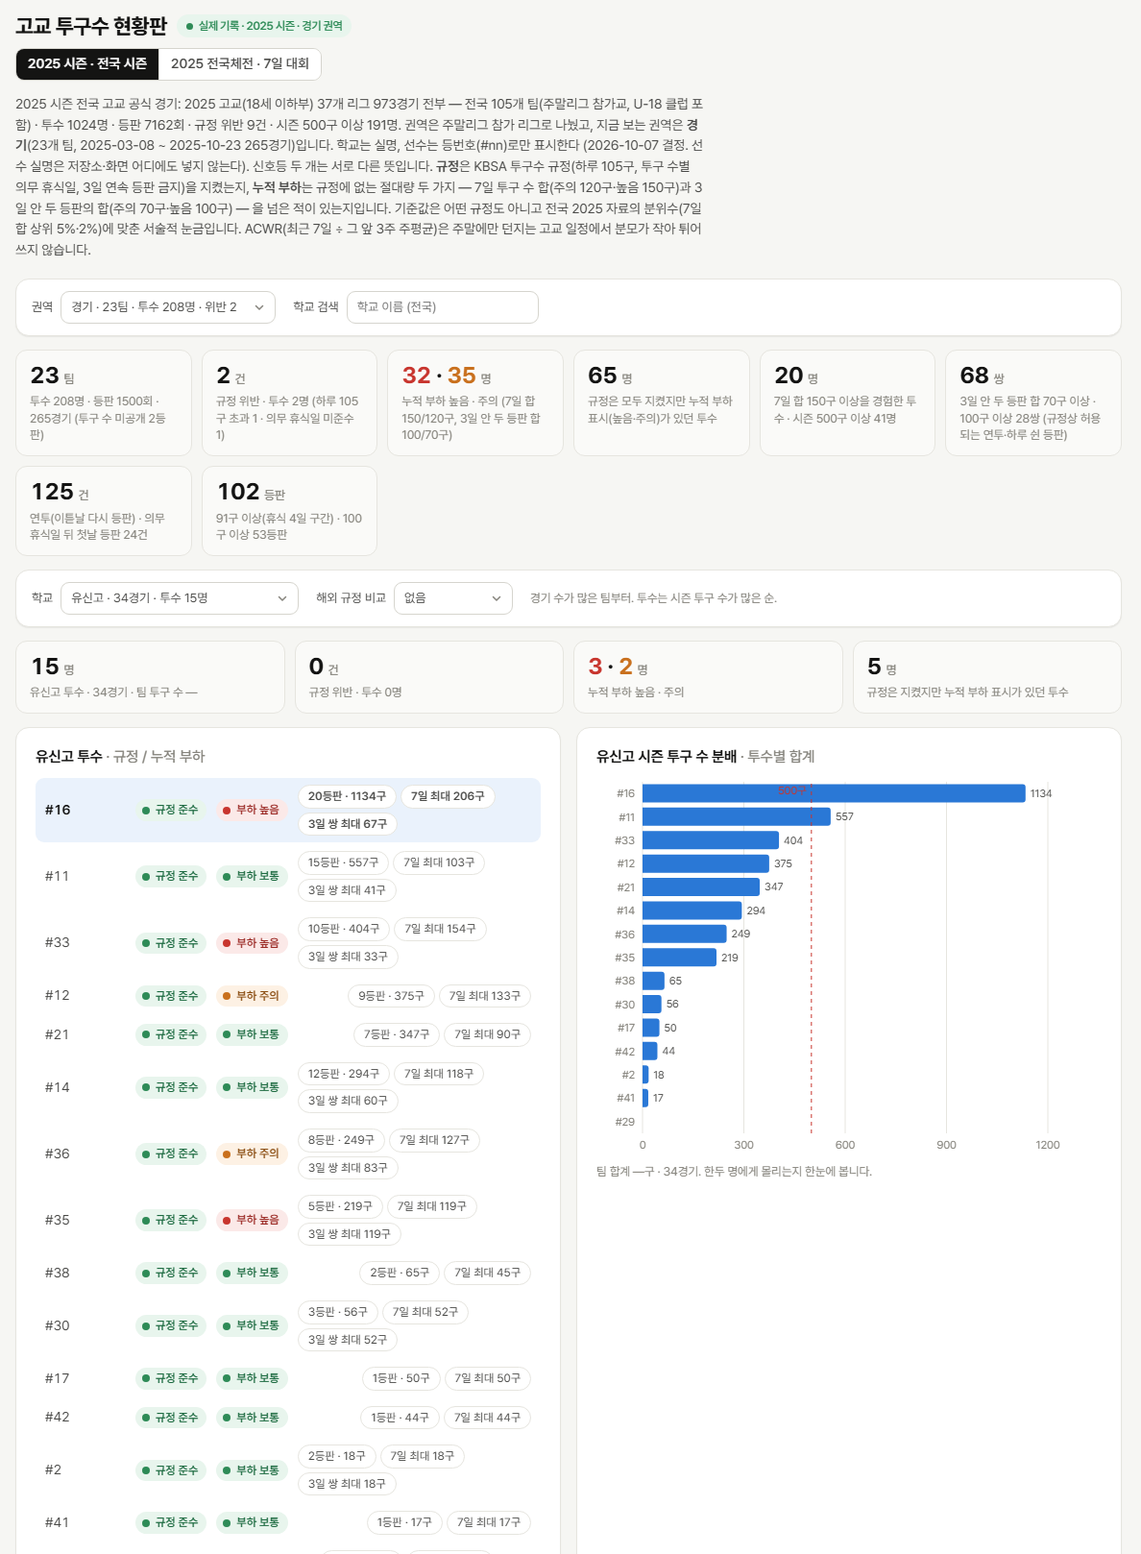
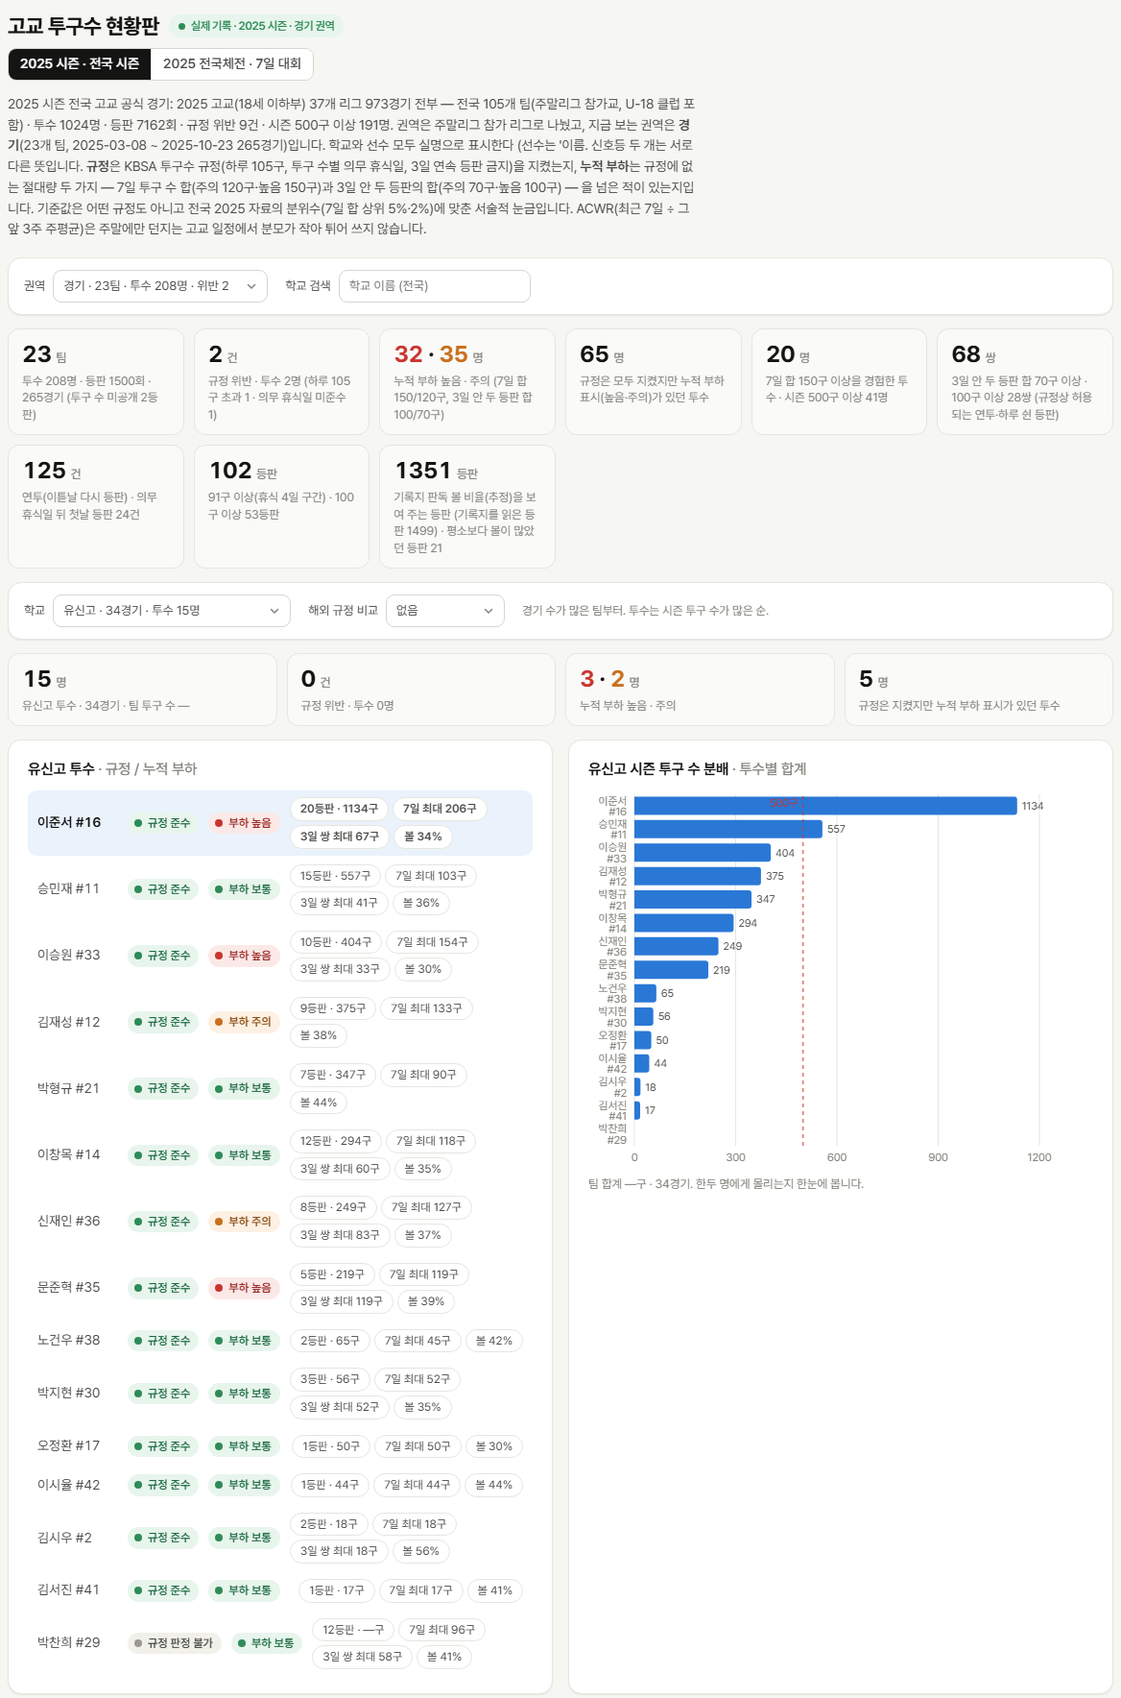
제안서·숫자표·슬라이드 갱신: 선수 이름 표기, 투수 운용 계획판·등판 흐름, 손기록지 볼 비율과 검증(영상 19경기 90.2%, 4사구율 상관 0.727, MLB 0.658), 고교 현황판 캡처 교체·볼 비율 그림 추가

diff --git a/docs/proposal/proposal.md b/docs/proposal/proposal.md
@@ -4,7 +4,7 @@
 
 **왜 필요한가.** 고교 투구수 규정은 하루 단위만 보고, 며칠에서 몇 주에 걸쳐 쌓이는 부하는 보지 못한다. 프로에서는 이상이 드러난 뒤의 대응이 늦거나(2026년 KBO 외국인 투수 완전 교체 결정까지 36~41일) 급하다(6주 대체 3~6일). 부상 전 투구 추적 지표에 신호가 있다는 연구는 여럿이지만 모두 부상 뒤 돌아본 분석이고, 정상 상태에서 경보가 얼마나 자주 울리는지는 다루지 않는다. 경보가 너무 자주 울리면 현장은 보지 않는다.
 
-**무엇을 만들었나.** ① 투수별로 움직이는 기준선과 가변 표본 표준화로, 투구 수가 다른 짧은 등판에서도 오경보율을 같게 지키는 감시 엔진. ② 경보가 울린 이유를 보여 주는 경보 카드와 시즌 리플레이(2021~2026 투수-시즌 2,970개 검색). ③ 추적 장비가 없는 고교·대회를 위한 투구수 현황판(KBSA 규정 자동 판정과 누적 부하). ④ KBO 구단용 **외국인 투수 영입 전 점검** — 2026년 KBO 외국인 투수 26명 중 19명의 MLB·트리플A 공개 기록에 같은 엔진을 돌린 이력 카드. 검증은 데이터가 모두 공개된 MLB 2021~2026 시즌에서 했고, 평가 계획은 결과를 보기 전에 고정해 공개했으며, 2026 시즌은 봉인했다가 한 번만 평가했다.
+**무엇을 만들었나.** ① 투수별로 움직이는 기준선과 가변 표본 표준화로, 투구 수가 다른 짧은 등판에서도 오경보율을 같게 지키는 감시 엔진. ② 경보가 울린 이유를 보여 주는 경보 카드와 시즌 리플레이(2021~2026 투수-시즌 2,970개 검색). ③ 추적 장비가 없는 고교·대회를 위한 투구수 현황판(KBSA 규정 자동 판정과 누적 부하, 투수 운용 계획판, 손기록지 사진에서 읽은 볼 비율(추정)과 이닝별 투구 수). ④ KBO 구단용 **외국인 투수 영입 전 점검** — 2026년 KBO 외국인 투수 26명 중 19명의 MLB·트리플A 공개 기록에 같은 엔진을 돌린 이력 카드. 검증은 데이터가 모두 공개된 MLB 2021~2026 시즌에서 했고, 평가 계획은 결과를 보기 전에 고정해 공개했으며, 2026 시즌은 봉인했다가 한 번만 평가했다.
 
 **결과 (검증셋 2024~2025, 계획 고정 뒤 한 번 계산)**
 
@@ -111,7 +111,7 @@ C_t = P_t + Σ_e + Σ_w / n_t,        u_t = C_t^(−1/2) (x̄_t − m_t)
 | ACWR | 최근 7일 투구 수 ÷ 직전 3주 주평균 | 1.8 초과 (개발셋 대조군 불펜을 보고 1.5에서 조정) |
 | 긴 등판 후 짧은 휴식 | 직전 등판 30구 이상 뒤 휴식 1일 이하 | 해당 시 |
 
-고교에는 같은 지표 위에 KBSA 투구수 규정 엔진(하루 105구, 투구 수별 휴식일, 3일 연속 금지)을 얹어 규정 준수를 자동 판정한다. 고교의 ACWR 기준은 야구공작소 분석과 비교할 수 있도록 1.5를 쓴다. 한계: 불펜에서 몸만 풀고 등판하지 않은 투구는 기록에 없으므로 실제 부하는 이보다 크다.
+고교에는 같은 지표 위에 KBSA 투구수 규정 엔진(하루 105구, 투구 수별 휴식일, 3일 연속 금지)을 얹어 규정 준수를 자동 판정한다. 고교에서는 실제 기록으로 확인한 결과 ACWR 대신 절대량 기준(7일 합, 3일 안 두 등판의 합)을 쓴다(6.1절). 한계: 불펜에서 몸만 풀고 등판하지 않은 투구는 기록에 없으므로 실제 부하는 이보다 크다.
 
 ## 3.6 설명 가능한 경보
 
@@ -198,7 +198,7 @@ MLB Statcast 공개 데이터 2021~2026 시즌을 썼다 [16]. 시즌당 등판 
 
 # 5. 시제품
 
-링크 하나(https://robinkim0221.github.io/pitch-signal/)로 설치 없이 바로 쓸 수 있다. 화면은 일곱 개다: ① 리플레이·경보 카드(2021~2026 투수-시즌 2,970개와 트리플A 32개 검색, 한계 배수 조절), ② 성능 비교(검증셋·봉인 탭), ③ 고교 현황판(2025 전국 고교 973경기·전국체전 14경기 실제 기록, 권역·학교 선택), ④ 팀 불펜 현황판(MLB 30개 팀 × 6시즌, 날짜 기준 불펜 전원 신호등), ⑤ KBO 외국인 투수 영입 전 점검(+직접 입력), ⑥ 2026 시즌 감시 현황(최근 4주 경보 투수), 소개. 모든 화면이 실제 공개 기록으로 돌아가며 가상 데이터는 없다.
+링크 하나(https://robinkim0221.github.io/pitch-signal/)로 설치 없이 바로 쓸 수 있다. 화면은 일곱 개다: ① 리플레이·경보 카드(2021~2026 투수-시즌 2,970개와 트리플A 32개 검색, 한계 배수 조절), ② 성능 비교(검증셋·봉인 탭), ③ 고교 현황판(2025 전국 고교 973경기·전국체전 14경기 실제 기록, 권역·학교 선택, 투수 운용 계획판, 기록지 볼 비율), ④ 팀 불펜 현황판(MLB 30개 팀 × 6시즌, 날짜 기준 불펜 전원 신호등), ⑤ KBO 외국인 투수 영입 전 점검(+직접 입력), ⑥ 2026 시즌 감시 현황(최근 4주 경보 투수), 소개. 모든 화면이 실제 공개 기록으로 돌아가며 가상 데이터는 없다.
 
 ![그림 6-1. 리플레이 화면. 검증셋 사례 한 명의 시즌을 등판 단위로 되감는다. 위는 구속·수직 릴리스·팔 각도와 예상 범위, 아래는 지수와 경보, 오른쪽에 짝지은 대조군을 나란히 둔다.](docs/proposal/screens/01_replay.png){width=13cm}
 
@@ -206,7 +206,7 @@ MLB Statcast 공개 데이터 2021~2026 시즌을 썼다 [16]. 시즌당 등판 
 
 ![그림 6-3. 성능 비교 화면. 운영 곡선과 결과표를 전체·선발·불펜으로 나눠 본다. 4장의 숫자와 같은 파일에서 읽는다.](docs/proposal/screens/03_performance.png){width=13cm}
 
-![그림 6-4. 고교 투구수 현황판(③) — 2025 전국 시즌 실제 기록 중 경기 권역(시즌 모드). 위는 전국 요약과 권역·학교 선택(학교 이름 검색), 권역 요약(규정 위반 2, 누적 부하 높음 32·주의 35, 규정은 지켰지만 부하 표시 65명, 7일 150구 이상 20명), 가운데는 한 학교의 투수 목록(규정·부하 신호등, 시즌 투구 수, 7일 최대, 3일 쌍 최대)과 투수별 시즌 투구 수 분배, 아래는 고른 투수의 일별 투구 수·7일 합(주의·높음 점선)과 등판표(대회·상대·투구 수·직전 등판 뒤 휴식 vs 의무 휴식일). 같은 화면의 다른 탭이 2025 전국체전(7일 대회 모드)이다. 학교는 실명, 선수는 등번호.](docs/proposal/screens/04_highschool.png){width=13cm}
+![그림 6-4. 고교 투구수 현황판(③) — 2025 전국 시즌 실제 기록 중 경기 권역(시즌 모드). 위는 전국 요약과 권역·학교 선택(학교 이름 검색), 권역 요약(규정 위반 2, 누적 부하 높음 32·주의 35, 규정은 지켰지만 부하 표시 65명, 7일 150구 이상 20명), 아래는 한 학교(유신고)의 투수 목록(규정·부하 신호등, 시즌 투구 수, 7일 최대, 3일 쌍 최대, 기록지 볼 비율)과 투수별 시즌 투구 수 분배. 같은 화면 아래쪽에 투수 운용 계획판, 고른 투수의 시즌 카드(그림 6-4b)·일별 투구 수·등판표가 이어지고, 다른 탭이 2025 전국체전(7일 대회 모드)이다.](docs/proposal/screens/04_highschool.png){width=13cm}
 
 ![그림 6-5. 외국인 투수 영입 전 점검 화면(⑤). 2026년 KBO 외국인 투수의 MLB(검정)·트리플A(보라) 시즌을 한 줄로 잇고, 경보(빨간 점), MLB 팔 부상 IL(빨간 선), 트리플A IL 등재(회색 점선, 거래 기록에 사유가 없어 대부분 부위 미상)를 표시한다. 표는 시즌별 시작 구간 구속, 마지막 5등판 구속, 경보 수, IL, 리플레이 링크.](docs/proposal/screens/05_scout.png){width=15cm}
 
@@ -216,13 +216,13 @@ MLB Statcast 공개 데이터 2021~2026 시즌을 썼다 [16]. 시즌당 등판 
 
 **사용 흐름.** ① 구단·팀 분석 파트: 등판 다음 날 아침 '시즌 현황'에서 경보가 울린 투수를 보고 카드를 연다 → '무엇이 얼마나 달라졌나'를 보고 트레이너와 점검 여부를 정한다 → 리플레이로 최근 흐름을 확인한다. 한계 배수 슬라이더로 팀의 오경보 허용치를 고를 수 있다(기본 1.0 = 설계점). ② 불펜 운영: 경기 뒤 '팀 불펜 현황판'에서 그날 기준 불펜 전원의 부하 신호등(표시 = 평가 계획의 다섯 기준, 주의 = 연투 중이거나 ACWR 1.5~1.8)을 보고, 표시가 켜진 투수의 시즌 그래프를 연다. ③ 고교 지도자·대회 운영본부: 경기 뒤 투수별 투구 수를 입력하거나(엑셀 양식) 협회 기록을 변환한다 → 규정 위반과 누적 부하를 같은 화면에서 본다 → 의무 휴식일과 다음 등판 가능일을 확인한다. ④ KBO 구단 스카우트: 영입 후보의 MLB·트리플A 이력 카드에서 구속 추세·경보·IL을 확인한다.
 
-**기술 구성.** 감시 엔진과 평가는 파이썬으로 구현했고(공개 저장소), 화면은 정적 웹(React)으로 만들어 서버 없이 배포한다. 선수 원데이터는 화면에 싣지 않으며, 고교 기록은 학교 실명과 등번호만 쓰고 선수 실명은 어디에도 두지 않는다.
+**기술 구성.** 감시 엔진과 평가는 파이썬으로 구현했고(공개 저장소), 화면은 정적 웹(React)으로 만들어 서버 없이 배포한다. MLB 선수 원데이터는 화면에 싣지 않는다. 고교 선수는 협회 기록실에 공개된 이름으로 '이름 #등번호'처럼 표시하되, 이름 대응표는 저장소 밖에 두고 화면 데이터를 만들 때만 붙인다. 손기록지 사진은 공개하지 않고 읽은 결과만 쓴다.
 
 # 6. 한국 적용과 실증
 
 ## 6.1 경기도 고교·대회 투구수 현황판
 
-고교에는 추적 장비도 공식 부상 기록도 없다. 그래서 고교 모듈은 탐지 성능을 주장하지 않고, **규정이 보지 못하는 누적 부하를 보여 주는 현황판**으로 만든다. 입력은 공식 경기 기록의 투수별 날짜·투구 수뿐이고, 화면은 KBSA 투구수 규정(하루 105구, 투구 수별 의무 휴식일, 3일 연속 등판 금지) 준수와 누적 부하를 신호등 두 개로 나눠 보여 준다. 학교는 실명으로, 선수는 등번호(#16)로만 표시하며 선수 실명은 저장소·화면 어디에도 두지 않는다.
+고교에는 추적 장비도 공식 부상 기록도 없다. 그래서 고교 모듈은 탐지 성능을 주장하지 않고, **규정이 보지 못하는 누적 부하를 보여 주는 현황판**으로 만든다. 입력은 공식 경기 기록의 투수별 날짜·투구 수뿐이고, 화면은 KBSA 투구수 규정(하루 105구, 투구 수별 의무 휴식일, 3일 연속 등판 금지) 준수와 누적 부하를 신호등 두 개로 나눠 보여 준다. 학교와 선수는 협회 기록실에 공개된 이름으로 표시한다(선수는 '이름 #등번호').
 
 **계획.** 2027년 상반기 경기도 고교·대학 2~3곳과 시즌 파일럿을 하고, 2027 화성 전국체전 기간에는 운영본부와 각 팀이 같은 현황판을 매일 본다(6.3절). 이 계획을 빈 화면으로 내지 않기 위해 **2025년 실제 기록으로 미리 돌려 보았다.** 대한야구소프트볼협회(KBSA) 기록실의 경기별 투수 기록(등판 구분·이닝·투구수)을 한 번 수집해 같은 입력 형식으로 바꾼 것으로, 자료는 두 벌이다.
 
@@ -250,6 +250,22 @@ MLB Statcast 공개 데이터 2021~2026 시즌을 썼다 [16]. 시즌당 등판 
 ![그림 6b. 2025 전국체전 18세 이하부 결승 진출 두 학교(광주제일고·유신고)의 등판 달력. 칸 숫자는 그날 투구 수(짙을수록 많음), 빗금은 직전 투구 수가 요구하는 의무 휴식일, ?는 투구 수 미공개. 규정 위반 0건인 대회에서도 부하가 몇 명에게 몰린다.](reports/figures/final/06b_tournament.png){width=15cm}
 
 결승에 오른 두 학교 중 경기도 대표 유신고는 4경기를 투수 6명이 나눠 던졌고, 8강에서 103구를 던진 선발이 4일 의무 휴식의 마지막 날 결승을 맞았다(그림 6b). 그 유신고의 #16은 시즌 모드에서 경기 권역 최다인 1,134구(20등판)를 던진 투수이기도 하다 — 시즌 화면과 대회 화면이 같은 투수를 서로 다른 시간 단위로 비추는 셈이다. 2027 화성 전국체전에서는 같은 화면을 대회 기간에 매일 갱신하면 되고, 시즌 파일럿은 같은 입력 형식(엑셀 양식 또는 협회 기록 변환)으로 바로 시작할 수 있다.
+
+**(3) 지도자가 바로 쓰는 운영 도구.** 투수 운용 계획판은 기준일 아침을 기준으로 투수마다 오늘 등판 가능 여부, 의무 휴식이 끝나는 날, 직전 7일 합, '오늘 N구를 던지면 다음 등판 가능일'을 보여 준다(화면과 파이프라인이 같은 규정 계산을 쓴다). 등판 흐름은 기록실 타격표의 이닝별 타석 결과를 시간 순서로 펴서 투수마다 타자·삼진·4사구·피안타를 붙인 것으로, 전국 7,162등판 중 7,160등판에 붙었다. 타석 결과는 맥락 정보이며 신호로 쓰지 않는다.
+
+**(4) 손기록지 사진에서 읽은 볼 비율(추정).** 공식 기록에는 등판별 투구 수만 있고 볼·스트라이크는 없다. 그래서 협회 기록실에 공개된 경기별 손기록지 사진 1,953장에서 칸마다 그려진 투구 표시를 읽어 등판별 볼 비율과 이닝별 투구 수를 추정했다. 자동 판독기(격자 찾기, 표시 떼기, 맞닿은 표시 개수 모형, 모양만 쓰는 볼 판정)가 기본이고, 자동 판독이 어려운 타석은 이미지 인식 AI로 타석 칸 전체를 다시 읽었다. 화면에는 읽은 투구 수가 공식 투구 수와 ±15% 안인 등판(6,560등판)에만 '볼 비율(추정)'을 보여 주고, 같은 투수의 다른 등판보다 볼 비율이 뚜렷하게 높은(z ≥ 2) 40구 이상 등판 105개에 '평소보다 볼이 많았던 등판'을 표시한다. 원인(피로·부상 등)은 해석하지 않는다.
+
+| 검증 | 결과 |
+|---|---|
+| 학습·보정에 쓰지 않은 시험용 경기의 40구 이상 1,403등판 | 검산 통과 97.6%, 볼 비율 ↔ 공식 4사구율 순위상관 0.727 (마지막 공 채우기 전 판독만 0.677) |
+| 비교: MLB 2025 정확한 투구 기록, 40구 이상 5,462등판 | 같은 상관 0.658 |
+| 중계 영상 19경기의 볼카운트 표시와 대조 | 타석 1,236개 중 90.2%가 볼·스트라이크 수까지 일치, 투수진 38개의 볼 비율 평균 오차 1.3%p |
+| '평소보다 볼 많음' 등판 (시험용 경기, 판정에 쓰지 않은 결과) | 타자당 사구 5.6%·폭투 4.6% (표시 없는 등판 3.8%·2.8%) |
+| 이닝별 투구 수 (기록지 맨 아래 '투구수' 줄) | 7,117등판에 붙음, 투수 교체 경계의 누적이 공식 기록과 같은 비율 94.5% |
+
+정확한 MLB 기록에서도 볼 비율과 4사구율의 순위상관은 0.66이다. 두 양이 원래 같지 않기 때문이며, 판독값의 상관이 그와 비슷한 수준이라는 것은 판독 오차가 신호를 지우지 않았다는 뜻이다. 그래도 손글씨를 읽은 추정값이므로 화면에는 "약간의 오차가 있을 수 있다"는 안내를 함께 둔다.
+
+![그림 6-4b. 고른 투수의 시즌 카드(유신고 이준서 #16). 부하 표시 이유, 시즌 등판 결과(맥락 정보), 기록지에서 읽은 볼 비율(시즌 33.9%, 20등판 중 19등판 표시)과 등판별 볼 비율 그림. 점선은 시즌 볼 비율이다.](docs/proposal/screens/04b_ball_ratio.png){width=14cm}
 
 ## 6.2 KBO: 외국인 투수 영입 전 점검
 
@@ -285,8 +301,8 @@ KBO 시즌 자체의 투구 추적 기록은 공개돼 있지 않다(KBO·포털
 ## 8.1 데이터 이용 조건과 선수 표기
 
 - MLB 투구 추적 데이터는 Baseball Savant(Statcast)의 공개 검색 결과와 MLB Stats API의 공개 거래·일정 정보를 썼다 [16][17]. 트리플A 투구 추적은 Baseball Savant의 마이너리그 Statcast 검색(2023~2025, 선수별 조회)을 썼다 [19]. 연구·비상업 목적이며, 원데이터는 저장소에 올리지 않고 처리한 결과만 공개한다. MLB 선수 이름은 공개 기록이다.
-- 고교 기록은 대한야구소프트볼협회(KBSA) 기록실의 공개 경기 기록 페이지를 2026년 10월 7일 한 차례, 범위를 정해(2025 고교 리그 목록 37쪽과 경기 기록 976쪽) 요청 간격을 두고 수집했다. 원본 페이지와 수집 스크립트는 공개하지 않고, 처리한 투구 수와 등번호만 쓴다. 반복 수집은 하지 않으며, 운영 단계에서는 협회의 공식 자료 제공이나 수기 입력(엑셀 양식)으로 대체한다. KBO·포털 중계 기록은 수집하지 않았다.
-- 고교 학교는 실명으로 쓰되 선수는 등번호(#16)로만 표시한다. 선수 실명 대응표는 저장소 밖에 보관하고 공개하지 않는다.
+- 고교 기록은 대한야구소프트볼협회(KBSA) 기록실의 공개 경기 기록 페이지를 2026년 10월 7일 한 차례, 범위를 정해(2025 고교 리그 목록 37쪽과 경기 기록 976쪽) 요청 간격을 두고 수집했다. 원본 페이지와 수집 스크립트는 공개하지 않고, 처리한 투구 수·타석 결과와 선수 이름·등번호만 쓴다. 같은 기록실의 경기별 손기록지 사진(2025 고교 경기, 1,953장)은 2026년 10월 7~8일(시범 62장 뒤 나머지 전부) 한 차례 내려받아 판독에만 쓰고 사진은 공개하지 않는다. 판독 검증에 쓴 중계 영상 19경기는 협회 공식 채널의 다시보기를 재생하며 화면의 볼카운트 표시만 기록했다. 반복 수집은 하지 않으며, 운영 단계에서는 협회의 공식 자료 제공이나 수기 입력(엑셀 양식)으로 대체한다. KBO·포털 중계 기록은 수집하지 않았다.
+- 고교 학교와 선수는 협회 기록실에 공개된 이름으로 표시한다(선수는 '이름 #등번호'). 이름 대응표 파일은 저장소 밖에 보관하고, 화면 데이터를 만들 때만 붙인다.
 - 코드, 평가 계획서, 결과 파일은 공개 저장소에 있다: https://github.com/ROBINKIM0221/pitch-signal
 
 ## 8.2 참고문헌

diff --git a/docs/proposal/numbers.md b/docs/proposal/numbers.md
@@ -165,7 +165,21 @@
 | 91구 이상 / 100구 이상 등판, 최다 | 5 / 3, 105구 | 〃 |
 | 3경기 이상 등판 투수 / 누적 최다 | 6명 / 188구 | 〃 |
 | 결승 진출 두 학교 팀 합계 | 광주제일고 557구(투수 6명), 유신고 356구 이상(투수 6명, 1등판 미공개) | reports/figures/final/06b_tournament.png |
-| 표기 | 학교는 실명, 선수는 등번호(#nn); 선수 실명 대응표는 저장소 밖(C:/work/private/pitchsignal/kbsa_2025_names.csv) | config_kbsa.yaml labels |
+| 표기 | 학교는 실명, 선수는 '이름 #등번호'(2026-10-08 사용자 결정); 이름 대응표는 저장소 밖(C:/work/private/pitchsignal/kbsa_2025_names.csv), 화면 데이터를 만들 때만 붙임 | config_kbsa.yaml labels·show_player_names |
+
+## 고교 현황판 (화면 3) — 운영 도구와 기록지 판독 (제안서 6.1의 (3)·(4))
+
+| 항목 | 값 | 출처 |
+|---|---|---|
+| 등판 흐름이 붙은 등판 | 7,160 / 7,162 | dashboard-web/public/data/highschool.json (totals.flow_outings) |
+| 기록지 사진 | 1,953장 (2025 고교 경기, 2026-10-07 시범 62장 · 10-08 나머지), 저장소 밖 | C:/work/private/pitchsignal/scoresheets/, data/processed/scoresheet_read_meta.csv |
+| 볼 비율을 읽은 등판 / 화면에 보이는 등판 / '평소보다 볼 많음' | 7,153 / 6,560 / 105 | highschool.json (totals.ball_read·ball_outings·ball_flags) |
+| 시험용 경기 40구 이상: 등판 / 검산 통과 / 순위상관 (채우기 전) | 1,403 / 97.6% / 0.727 (0.677) | reports/tables/hs_scoresheet_summary.csv |
+| '평소보다 볼 많음' 등판의 타자당 사구·폭투 (시험용, 표시 없는 등판) | 5.57%·4.59% (3.84%·2.81%) | 〃 |
+| MLB 2025 같은 상관 (40구 이상 5,462등판, 정확한 투구 기록) | 0.658 (사구만 0.087) | 2026-10-16 계산, 저장소 밖 C:/work/private/pitchsignal/video/mlb_corr.py (data/raw/statcast/2025) |
+| 중계 영상 19경기 대조: 타석 일치 / 투수진 38개 볼 비율 평균 오차 | 1,236타석 중 90.2% / 1.3%p | 저장소 밖 C:/work/private/pitchsignal/review_full/seq_eval.py, video/staff_err.py (docs/SPEC.md 변경 기록 2026-10-16) |
+| AI 타석 칸 전체 다시 읽기 | 32,484타석 (영상 19경기 전 타석 + 40구 이상 등판 중 모델 판독뿐인 타석), 칸 선을 잘못 잡은 8장의 빈 판독은 버림 | reports/logs (score 실행), docs/SPEC.md 3.14.4의 5-2 |
+| 이닝별 투구 수: 붙은 등판 / 이닝 볼·스트라이크까지 보임 / 교체 경계 누적 = 공식 | 7,117 / 93.9% / 94.5% | reports/tables/hs_scoresheet_rows_summary.csv |
 
 ## 팀 불펜 현황판 (화면 4)
 
